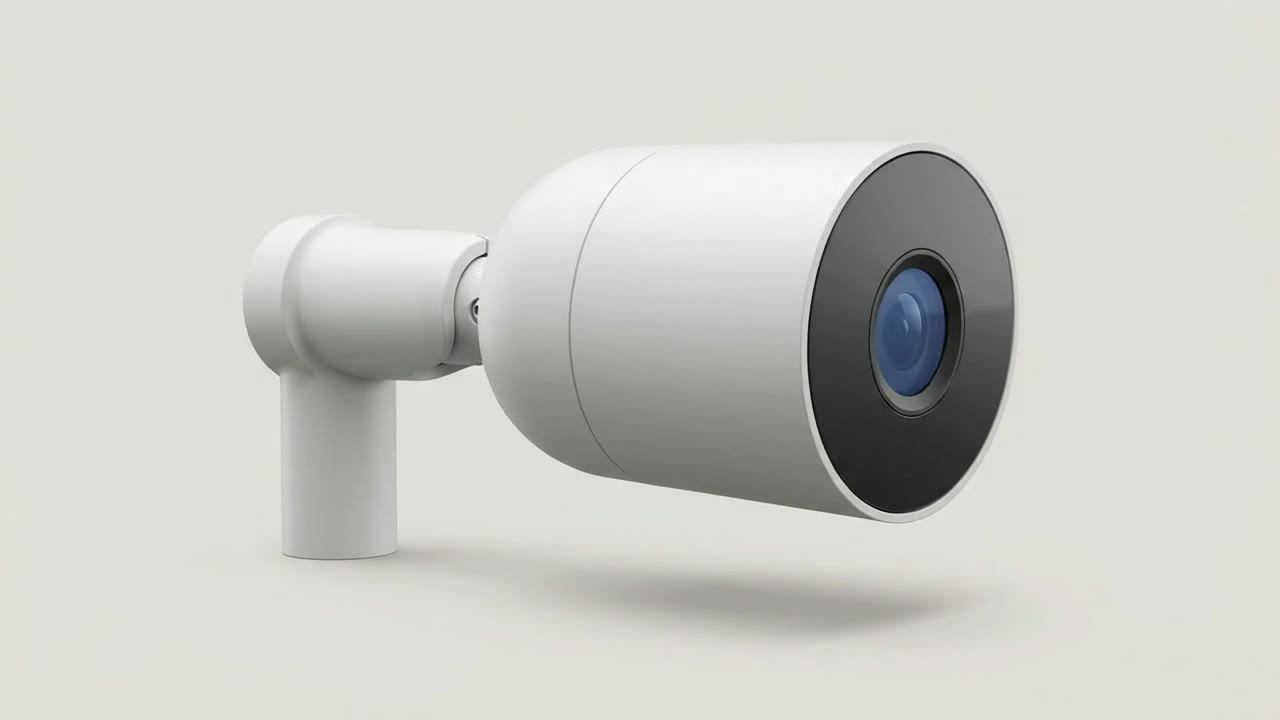
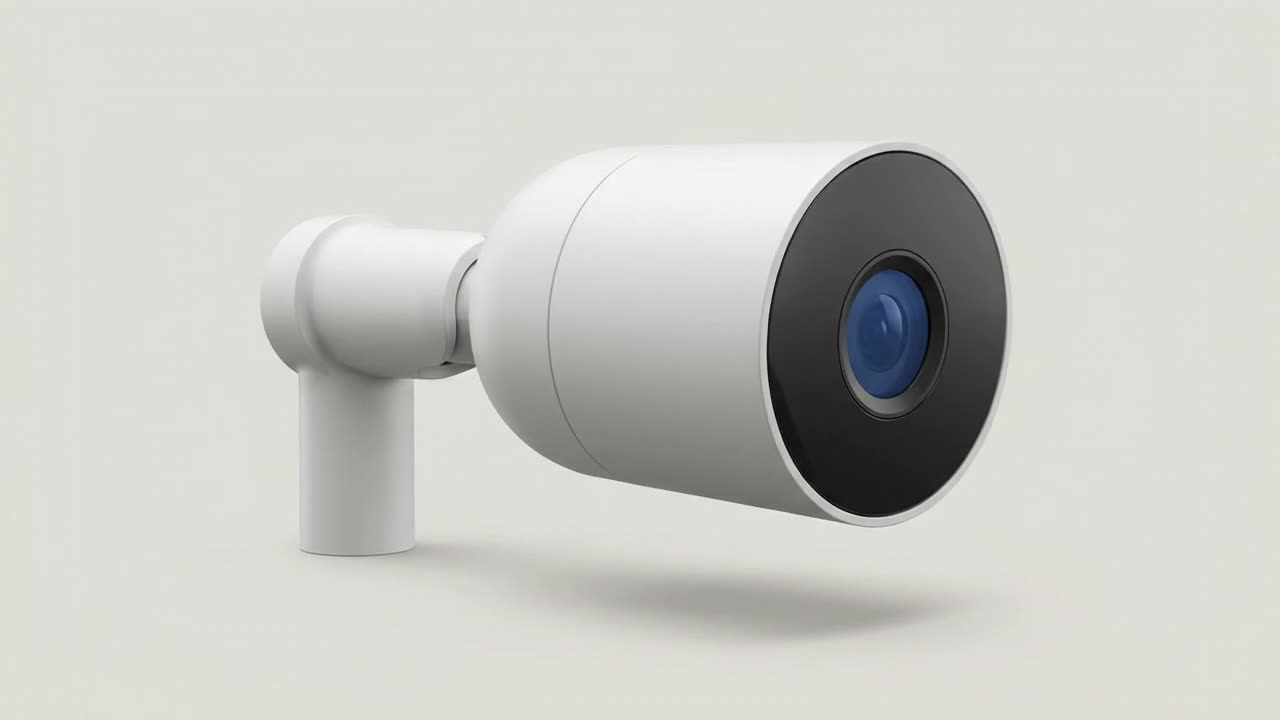
Smoother hero camera: 49 frames with crossfade

diff --git a/app.js b/app.js
@@ -9,22 +9,27 @@ const clockStr=()=>{const d=new Date();return `${pad(d.getDate())}.${pad(d.getMo
 const tick=()=>{$('#osdClock').textContent=clockStr();$('#feedClock').textContent=clockStr()};
 tick();setInterval(tick,1000);
 
-/* ---- герой: поворот камеры ---- */
-const shot=$('#heroShot'),himg=$('#spinImg'),hint=$('#spinHint');
-const FR=25;let cur=0,loaded=false,target=0,timer=null;
-function loadFrames(){if(loaded)return;loaded=true;for(let i=0;i<FR;i++){const im=new Image();im.src=`img/spin/s${pad(i)}.jpg`}}
-if('requestIdleCallback' in window)requestIdleCallback(loadFrames,{timeout:2500});else setTimeout(loadFrames,1500);
-function show(i){i=Math.max(0,Math.min(FR-1,i));if(i===cur)return;cur=i;himg.src=`img/spin/s${pad(i)}.jpg`;hint.style.opacity=0}
-function ease(){const d=target-cur;if(Math.abs(d)<.5){show(target);timer=null;return}show(cur+Math.sign(d)*Math.max(1,Math.round(Math.abs(d)/4)));timer=setTimeout(ease,16)}
-let lastUser=0,hov=false;
-function aim(e){lastUser=Date.now();hov=true;loadFrames();const r=shot.getBoundingClientRect(),p=Math.max(0,Math.min(1,(e.clientX-r.left)/r.width));target=Math.round((1-p)*(FR-1));if(!timer)timer=setTimeout(ease,16)}
+/* ---- герой: поворот камеры (кадры с плавным смешиванием) ---- */
+const shot=$('#heroShot'),imgA=$('#spinImg'),imgB=$('#spinImg2'),hint=$('#spinHint');
+const FR=49,fsrc=i=>`img/spin/s${pad(i)}.jpg`;
+let loaded=false,pos=0,target=0,lastUser=0,hov=false,shownI=-1,shownF=-1;
+function loadFrames(){if(loaded)return;loaded=true;for(let i=0;i<FR;i++){const im=new Image();im.src=fsrc(i)}}
+if('requestIdleCallback' in window)requestIdleCallback(loadFrames,{timeout:2500});else setTimeout(loadFrames,1200);
+function paint(){
+  const p=Math.max(0,Math.min(FR-1,pos)),i=Math.floor(p),f=p-i,j=Math.min(FR-1,i+1);
+  if(i!==shownI){imgA.src=fsrc(i);shownI=i}
+  if(f>0.01){if(imgB.dataset.k!=j){imgB.src=fsrc(j);imgB.dataset.k=j}imgB.style.opacity=f}else imgB.style.opacity=0;
+}
+setInterval(()=>{
+  const auto=!hov&&Date.now()-lastUser>2500&&!matchMedia('(prefers-reduced-motion:reduce)').matches;
+  if(auto){loadFrames();const T=9000,ph=(Date.now()%T)/T;target=(FR-1)*(0.5-0.5*Math.cos(ph*2*Math.PI))}
+  const d=target-pos;if(Math.abs(d)<0.02)return;
+  pos+=d*(auto?0.5:0.16);if(Math.abs(pos-target)<0.02)pos=target;
+  if(Math.abs(d)>0.3)hint.style.opacity=0;paint();
+},16);
+function aim(e){lastUser=Date.now();hov=true;loadFrames();const r=shot.getBoundingClientRect(),p=Math.max(0,Math.min(1,(e.clientX-r.left)/r.width));target=(1-p)*(FR-1)}
 shot.addEventListener('pointermove',aim);shot.addEventListener('pointerdown',aim);
 shot.addEventListener('pointerleave',()=>{hov=false;lastUser=Date.now()});
-/* автоповорот: камера сама качается, пока пользователь не трогает */
-if(!matchMedia('(prefers-reduced-motion:reduce)').matches){
-  const T=8000,t0=Date.now();
-  setInterval(()=>{if(hov||Date.now()-lastUser<2500)return;loadFrames();const ph=((Date.now()-t0)%T)/T;target=Math.round((FR-1)*(0.5-0.5*Math.cos(ph*2*Math.PI)));if(!timer)timer=setTimeout(ease,16)},50);
-}
 
 /* ---- данные ---- */
 const TYPES={

diff --git a/index.html b/index.html
@@ -55,6 +55,7 @@
   <div class="hero-shot" id="heroShot">
     <div class="arch">
       <img id="spinImg" src="img/spin/s00.jpg" alt="Уличная камера видеонаблюдения крупным планом, её можно повернуть мышью или пальцем" width="1280" height="720" fetchpriority="high" draggable="false">
+      <img id="spinImg2" src="img/spin/s01.jpg" alt="" width="1280" height="720" draggable="false" style="opacity:0">
       <div class="osd tl"><i class="rec-dot"></i>REC</div>
       <div class="osd tr" id="osdClock">00:00:00</div>
       <div class="osd bl">CAM 01 · Уличная</div>
